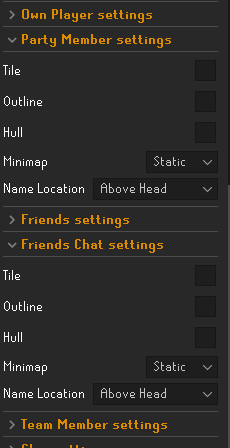
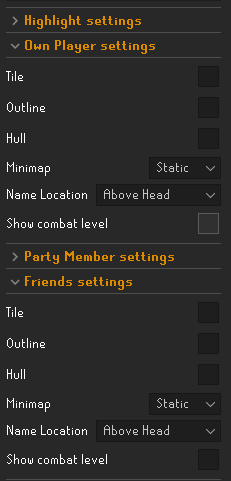
Added combat level setting

diff --git a/src/main/java/com/playerindicatorextended/PlayerIndicatorExtendedConfig.java b/src/main/java/com/playerindicatorextended/PlayerIndicatorExtendedConfig.java
@@ -14,6 +14,7 @@ public interface PlayerIndicatorExtendedConfig extends Config
     boolean defaultTile = false;
     boolean defaultOutline = false;
     boolean defaultHull = false;
+    boolean defaultCombatLevel = false;
     NameLocation defaultNamelocation = NameLocation.ABOVE_HEAD;
     MinimapAnimation defaultMinimapanimation = MinimapAnimation.STATIC;
 
@@ -353,63 +354,75 @@ public interface PlayerIndicatorExtendedConfig extends Config
     String ownPlayerSection = "ownPlayerSection";
 
     @ConfigItem(
-            keyName="ownPlayerPlayerTile",
+            keyName="ownPlayerTile",
             name="Tile",
             description="Highlight ownPlayer player's tile?",
             section= ownPlayerSection,
             position=0
     )
-    default boolean ownPlayerPlayerTile()
+    default boolean ownPlayerTile()
     {
         return defaultTile;
     }
 
     @ConfigItem(
-            keyName="ownPlayerPlayerOutline",
+            keyName="ownPlayerOutline",
             name="Outline",
             description="Highlight ownPlayer player's outline?",
             section= ownPlayerSection,
             position=1
     )
-    default boolean ownPlayerPlayerOutline()
+    default boolean ownPlayerOutline()
     {
         return defaultOutline;
     }
 
     @ConfigItem(
-            keyName="ownPlayerPlayerHull",
+            keyName="ownPlayerHull",
             name="Hull",
             description="Highlight ownPlayer player's hull ring?",
             section= ownPlayerSection,
             position=2
     )
-    default boolean ownPlayerPlayerHull()
+    default boolean ownPlayerHull()
     {
         return defaultHull;
     }
 
     @ConfigItem(
-            keyName="ownPlayerPlayerMinimapAnimation",
+            keyName="ownPlayerMinimapAnimation",
             name="Minimap",
             description="Minimap highlight (None=off)",
             section= ownPlayerSection,
             position=3
     )
-    default MinimapAnimation ownPlayerPlayerMinimapAnimation()
+    default MinimapAnimation ownPlayerMinimapAnimation()
     {
         return defaultMinimapanimation;
     }
 
     @ConfigItem(
-            keyName="ownPlayerPlayerNameLocation",
+            keyName="ownPlayerNameLocation",
             name="Name Location",
             description="Where to display ownPlayer player's name?",
             section= ownPlayerSection,
             position=4
     )
-    default NameLocation ownPlayerPlayerNameLocation()
+    default NameLocation ownPlayerNameLocation()
     {
         return defaultNamelocation;
+    }
+
+    @ConfigItem(
+            keyName = "ownPlayerCombatLevel",
+            name = "Show combat level",
+            description = "Show player's combat level next to the name.",
+            section = ownPlayerSection,
+            position = 5
+    )
+    default boolean ownPlayerCombatLevel()
+    {
+        return defaultCombatLevel;
     }
 
     // ----------------------------------------------------
@@ -479,6 +492,18 @@ public interface PlayerIndicatorExtendedConfig extends Config
         return defaultNamelocation;
     }
 
+    @ConfigItem(
+            keyName = "partyPlayerCombatLevel",
+            name = "Show combat level",
+            description = "Show player's combat level next to the name.",
+            section = partySection,
+            position = 5
+    )
+    default boolean partyPlayerCombatLevel()
+    {
+        return defaultCombatLevel;
+    }
+
 
     // ----------------------------------------------------
     // 4) Friends settings
@@ -537,6 +562,18 @@ public interface PlayerIndicatorExtendedConfig extends Config
     )
     default NameLocation friendsPlayerNameLocation() { return defaultNamelocation; }
 
+    @ConfigItem(
+            keyName = "friendsPlayerCombatLevel",
+            name = "Show combat level",
+            description = "Show player's combat level next to the name.",
+            section = friendsSection,
+            position = 5
+    )
+    default boolean friendsPlayerCombatLevel()
+    {
+        return defaultCombatLevel;
+    }
+
     // ----------------------------------------------------
     // 5) Friends Chat settings
     // ----------------------------------------------------
@@ -594,6 +631,18 @@ public interface PlayerIndicatorExtendedConfig extends Config
     )
     default NameLocation friendsChatPlayerNameLocation() { return defaultNamelocation; }
 
+    @ConfigItem(
+            keyName = "friendsChatPlayerCombatLevel",
+            name = "Show combat level",
+            description = "Show player's combat level next to the name.",
+            section = friendsChatSection,
+            position = 5
+    )
+    default boolean friendsChatPlayerCombatLevel()
+    {
+        return defaultCombatLevel;
+    }
+
     // ----------------------------------------------------
     // 6) Team Member settings
     // ----------------------------------------------------
@@ -650,6 +699,18 @@ public interface PlayerIndicatorExtendedConfig extends Config
             position=4
     )
     default NameLocation teamPlayerNameLocation() { return defaultNamelocation; }
+
+    @ConfigItem(
+            keyName = "teamPlayerCombatLevel",
+            name = "Show combat level",
+            description = "Show player's combat level next to the name.",
+            section = teamSection,
+            position = 5
+    )
+    default boolean teamPlayerCombatLevel()
+    {
+        return defaultCombatLevel;
+    }
 
     // ----------------------------------------------------
     // 7) Clan settings
@@ -721,6 +782,18 @@ public interface PlayerIndicatorExtendedConfig extends Config
     default NameLocation clanPlayerNameLocation()
     {
         return defaultNamelocation;
+    }
+
+    @ConfigItem(
+            keyName = "clanPlayerCombatLevel",
+            name = "Show combat level",
+            description = "Show player's combat level next to the name.",
+            section = clanSection,
+            position = 5
+    )
+    default boolean clanPlayerCombatLevel()
+    {
+        return defaultCombatLevel;
     }
 
     // ----------------------------------------------------
@@ -795,6 +868,18 @@ public interface PlayerIndicatorExtendedConfig extends Config
         return defaultNamelocation;
     }
 
+    @ConfigItem(
+            keyName = "attackablePlayerCombatLevel",
+            name = "Show combat level",
+            description = "Show player's combat level next to the name.",
+            section = attackableSection,
+            position = 5
+    )
+    default boolean attackablePlayerCombatLevel()
+    {
+        return true;
+    }
+
     // ----------------------------------------------------
     // 9) Ignored settings
     // ----------------------------------------------------
@@ -865,6 +950,18 @@ public interface PlayerIndicatorExtendedConfig extends Config
     default NameLocation ignoredPlayerNameLocation()
     {
         return defaultNamelocation;
+    }
+
+    @ConfigItem(
+            keyName = "ignoredPlayerCombatLevel",
+            name = "Show combat level",
+            description = "Show player's combat level next to the name.",
+            section = ignoredSection,
+            position = 5
+    )
+    default boolean ignoredPlayerCombatLevel()
+    {
+        return defaultCombatLevel;
     }
 
     // ----------------------------------------------------
@@ -939,6 +1036,18 @@ public interface PlayerIndicatorExtendedConfig extends Config
         return defaultNamelocation;
     }
 
+    @ConfigItem(
+            keyName = "taggedPlayerCombatLevel",
+            name = "Show combat level",
+            description = "Show player's combat level next to the name.",
+            section = taggedSection,
+            position = 5
+    )
+    default boolean taggedPlayerCombatLevel()
+    {
+        return defaultCombatLevel;
+    }
+
     // ----------------------------------------------------
     // 11) Others settings
     // ----------------------------------------------------
@@ -1009,6 +1118,18 @@ public interface PlayerIndicatorExtendedConfig extends Config
     default NameLocation othersPlayerNameLocation()
     {
         return defaultNamelocation;
+    }
+
+    @ConfigItem(
+            keyName = "othersPlayerCombatLevel",
+            name = "Show combat level",
+            description = "Show player's combat level next to the name.",
+            section = othersSection,
+            position = 5
+    )
+    default boolean othersPlayerCombatLevel()
+    {
+        return defaultCombatLevel;
     }
 
     // ----------------------------------------------------

diff --git a/src/main/java/com/playerindicatorextended/Highlighters/OwnPlayerHighlighter.java b/src/main/java/com/playerindicatorextended/Highlighters/OwnPlayerHighlighter.java
@@ -59,14 +59,15 @@ public class OwnPlayerHighlighter extends BaseHighlighter
         return PlayerRenderProperties.builder()
                 .player(player)
                 .renderColor(config.highlightOwnPlayerColor())
-                .renderNameLocation(config.ownPlayerPlayerNameLocation())
-                .renderOutline(config.ownPlayerPlayerOutline())
-                .renderMinimap(config.ownPlayerPlayerMinimapAnimation())
-                .renderTile(config.ownPlayerPlayerTile())
-                .renderHull(config.ownPlayerPlayerHull())
+                .renderNameLocation(config.ownPlayerNameLocation())
+                .renderOutline(config.ownPlayerOutline())
+                .renderMinimap(config.ownPlayerMinimapAnimation())
+                .renderTile(config.ownPlayerTile())
+                .renderHull(config.ownPlayerHull())
                 .priority(this.getPriority())
                 .renderClanChatRank(config.clanChatRank())
                 .renderFriendsChatRank(config.friendsChatRank())
+                .renderCombatLevel(config.ownPlayerCombatLevel())
                 .build();
     }
 }

diff --git a/src/main/java/com/playerindicatorextended/PlayerRender/PlayerRenderHelper.java b/src/main/java/com/playerindicatorextended/PlayerRender/PlayerRenderHelper.java
@@ -70,7 +70,12 @@ public class PlayerRenderHelper {
         g.setStroke(old);
     }
 
-    protected void drawName(Graphics2D g, Player p, String nameText, NameLocation nameLoc, Color nameColor, BufferedImage icon) {
+    protected void drawName(Graphics2D g, Player p, String nameText, NameLocation nameLoc, Color nameColor, BufferedImage icon, boolean showCombatLevel) {
+        if(showCombatLevel){
+            int combatLevel = p.getCombatLevel();
+            nameText = nameText + " (level-"  +  combatLevel + ")";
+        }
+
         if (nameLoc != NameLocation.DISABLED)
             drawText(g, p, nameText, nameLoc, nameColor, icon);
     }

diff --git a/src/main/java/com/playerindicatorextended/PlayerRender/PlayerSceneOverlay.java b/src/main/java/com/playerindicatorextended/PlayerRender/PlayerSceneOverlay.java
@@ -74,7 +74,7 @@ public class PlayerSceneOverlay extends Overlay
 
 
             if (decision.getRenderNameLocation() != NameLocation.DISABLED)
-                renderHelper.drawName(g, player, player.getName(), decision.getRenderNameLocation(), color, rankImage);
+                renderHelper.drawName(g, player, player.getName(), decision.getRenderNameLocation(), color, rankImage, decision.isRenderCombatLevel());
         }
 
         return null;

diff --git a/src/main/java/com/playerindicatorextended/Highlighters/FriendsChatHighlighter.java b/src/main/java/com/playerindicatorextended/Highlighters/FriendsChatHighlighter.java
@@ -73,6 +73,7 @@ public class FriendsChatHighlighter extends BaseHighlighter
                 .priority(this.getPriority())
                 .renderClanChatRank(config.clanChatRank())
                 .renderFriendsChatRank(config.friendsChatRank())
+                .renderCombatLevel(config.friendsChatPlayerCombatLevel())
                 .build();
     }
 

diff --git a/src/main/java/com/playerindicatorextended/Highlighters/AttackableHighlighter.java b/src/main/java/com/playerindicatorextended/Highlighters/AttackableHighlighter.java
@@ -66,6 +66,7 @@ public class AttackableHighlighter extends BaseHighlighter
                 .priority(this.getPriority())
                 .renderClanChatRank(config.clanChatRank())
                 .renderFriendsChatRank(config.friendsChatRank())
+                .renderCombatLevel(config.attackablePlayerCombatLevel())
                 .build();
     }
 

diff --git a/src/main/java/com/playerindicatorextended/Highlighters/TaggedPlayerHighlighter.java b/src/main/java/com/playerindicatorextended/Highlighters/TaggedPlayerHighlighter.java
@@ -100,6 +100,7 @@ public class TaggedPlayerHighlighter extends BaseHighlighter
                 .priority(this.getPriority())
                 .renderClanChatRank(config.clanChatRank())
                 .renderFriendsChatRank(config.friendsChatRank())
+                .renderCombatLevel(config.taggedPlayerCombatLevel())
                 .build();
     }
 

diff --git a/src/main/java/com/playerindicatorextended/Highlighters/FriendsHighlighter.java b/src/main/java/com/playerindicatorextended/Highlighters/FriendsHighlighter.java
@@ -70,6 +70,7 @@ public class FriendsHighlighter extends BaseHighlighter
                 .priority(this.getPriority())
                 .renderClanChatRank(config.clanChatRank())
                 .renderFriendsChatRank(config.friendsChatRank())
+                .renderCombatLevel(config.friendsPlayerCombatLevel())
                 .build();
     }
 

diff --git a/src/main/java/com/playerindicatorextended/Highlighters/IgnoreHighlighter.java b/src/main/java/com/playerindicatorextended/Highlighters/IgnoreHighlighter.java
@@ -73,6 +73,7 @@ public class IgnoreHighlighter extends BaseHighlighter
                 .priority(this.getPriority())
                 .renderClanChatRank(config.clanChatRank())
                 .renderFriendsChatRank(config.friendsChatRank())
+                .renderCombatLevel(config.ignoredPlayerCombatLevel())
                 .build();
     }
 

diff --git a/src/main/java/com/playerindicatorextended/Highlighters/ClanMemberHighlighter.java b/src/main/java/com/playerindicatorextended/Highlighters/ClanMemberHighlighter.java
@@ -73,6 +73,7 @@ public class ClanMemberHighlighter extends BaseHighlighter
                 .priority(this.getPriority())
                 .renderClanChatRank(config.clanChatRank())
                 .renderFriendsChatRank(config.clanChatRank())
+                .renderCombatLevel(config.clanPlayerCombatLevel())
                 .build();
     }
 }

diff --git a/src/main/java/com/playerindicatorextended/Highlighters/OthersHighlighter.java b/src/main/java/com/playerindicatorextended/Highlighters/OthersHighlighter.java
@@ -70,6 +70,7 @@ public class OthersHighlighter extends BaseHighlighter
                 .priority(this.getPriority())
                 .renderClanChatRank(config.clanChatRank())
                 .renderFriendsChatRank(config.friendsChatRank())
+                .renderCombatLevel(config.othersPlayerCombatLevel())
                 .build();
     }
 

diff --git a/src/main/java/com/playerindicatorextended/Highlighters/PartyHighlighter.java b/src/main/java/com/playerindicatorextended/Highlighters/PartyHighlighter.java
@@ -79,6 +79,7 @@ public class PartyHighlighter extends BaseHighlighter
                 .priority(this.getPriority())
                 .renderClanChatRank(config.clanChatRank())
                 .renderFriendsChatRank(config.friendsChatRank())
+                .renderCombatLevel(config.partyPlayerCombatLevel())
                 .build();
     }
 
